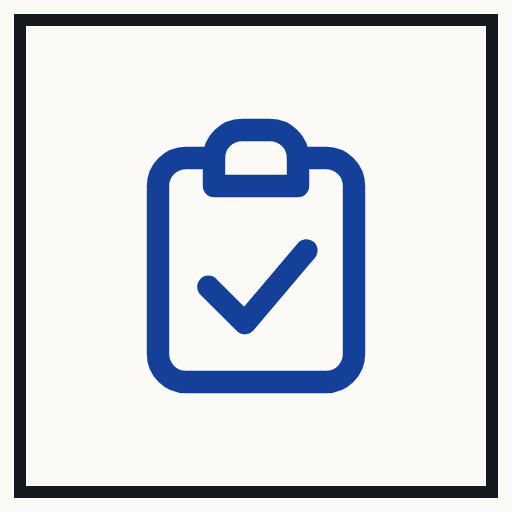
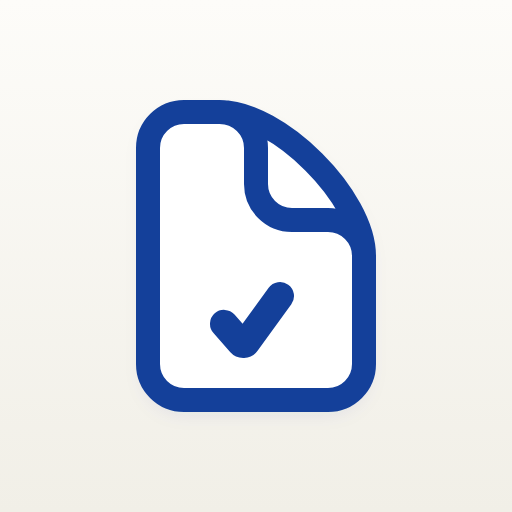
Новая иконка без рамки и заставка при запуске
Иконка по рефу file-check на бумажном фоне, PNG помечены maskable.
Заставка: три бланка раскладываются веером и заполняются, ~1,3 с,
касание пропускает, при reduced-motion — статичный кадр. Кэш akt-v17.

Changed region(s): [[0.0, 0.0, 1.0, 1.0], [0.25, 0.1875, 0.75, 0.8125]]

diff --git a/index.html b/index.html
@@ -243,6 +243,23 @@ main{max-width:1240px;margin:0 auto;padding:20px calc(var(--fR) + 16px) 0 calc(v
 #pvpage .docx-wrapper{background:none;padding:0}
 #pvpage section.docx{margin:0 auto;background:#fff;color:#000;box-shadow:0 6px 24px rgba(0,0,0,.4)}
 #toast{position:fixed;left:50%;transform:translateX(-50%);bottom:calc(var(--barh) + var(--fB) + 14px);background:var(--ink);color:var(--paper);padding:12px 18px;border-radius:4px;z-index:20;display:none;font-weight:600;max-width:90vw}
+/* Заставка: три бланка раскладываются веером и быстро заполняются, затем собираются в один.
+   Покой = конечный кадр, ключевые кадры ведут из пустого: при reduce видно готовое состояние. */
+#splash{position:fixed;inset:0;z-index:30;display:grid;place-items:center;background:var(--paper);animation:sp-out .25s 1.02s ease-in both}
+#splash svg{width:min(76vw,340px);overflow:visible;stroke:var(--acc);fill:none;stroke-linecap:round;stroke-linejoin:round}
+#splash .pg{fill:var(--surf);stroke-width:1.15}
+#splash .s{transform-box:fill-box;transform-origin:50% 100%}
+#splash .sl{transform:rotate(-7deg);animation:sp-l 1.08s var(--ease) both}
+#splash .sr{transform:rotate(7deg);animation:sp-r 1.08s var(--ease) both}
+#splash .sc{animation:sp-c .3s var(--ease) both}
+#splash .f{stroke-width:.9;stroke-dasharray:1 2;animation:sp-f .2s var(--d) var(--ease) both}
+#splash .f.b{stroke-width:1.2}
+#splash .ok{stroke-width:1.4;animation-duration:.26s}
+@keyframes sp-f{from{stroke-dashoffset:1.01}}
+@keyframes sp-c{from{opacity:0;transform:scale(.9)}}
+@keyframes sp-l{0%{opacity:0;transform:translateX(18px)}24%,78%{opacity:1;transform:rotate(-7deg)}100%{opacity:0;transform:translateX(18px)}}
+@keyframes sp-r{0%{opacity:0;transform:translateX(-18px)}24%,78%{opacity:1;transform:rotate(7deg)}100%{opacity:0;transform:translateX(-18px)}}
+@keyframes sp-out{to{opacity:0;visibility:hidden}}
 @media (prefers-reduced-motion:reduce){*{animation:none!important;transition:none!important}}
 @media print{
   @page{size:A4;margin:0}
@@ -257,6 +274,22 @@ main{max-width:1240px;margin:0 auto;padding:20px calc(var(--fR) + 16px) 0 calc(v
 </style>
 </head>
 <body class="home">
+<div id="splash" aria-hidden="true"><svg viewBox="0 2 60 20">
+ <defs><path id="spPg" d="M9.728 3H7.5a2.25 2.25 0 0 0-2.25 2.25v13.5A2.25 2.25 0 0 0 7.5 21h9a2.25 2.25 0 0 0 2.25-2.25V12C18.75 8.36 13.418 3 9.728 3zM9.728 3C10.971 3 12 4.007 12 5.25V7.5a2.25 2.25 0 0 0 2.25 2.25h2.25A2.25 2.25 0 0 1 18.75 12"/></defs>
+ <g><g class="s sl"><use href="#spPg" class="pg"/>
+  <path class="f" pathLength="1" style="--d:.26s" d="M7.75 12.25H12"/><path class="f" pathLength="1" style="--d:.3s" d="M14.5 12.25h1.75"/>
+  <path class="f" pathLength="1" style="--d:.34s" d="M7.75 14.75H12"/><path class="f" pathLength="1" style="--d:.38s" d="M14.5 14.75h1.75"/>
+  <path class="f b" pathLength="1" style="--d:.44s" d="M7.75 17.75H10"/><path class="f b" pathLength="1" style="--d:.48s" d="M13 17.75h3.25"/></g></g>
+ <g transform="translate(36 0)"><g class="s sr"><use href="#spPg" class="pg"/>
+  <path class="f" pathLength="1" style="--d:.2s" d="M7.75 12H16.25"/><path class="f" pathLength="1" style="--d:.26s" d="M11 12V18.75"/>
+  <path class="f" pathLength="1" style="--d:.32s" d="M8 14.5h1.5"/><path class="f b" pathLength="1" style="--d:.36s" d="M12.5 14.5h3.25"/>
+  <path class="f" pathLength="1" style="--d:.42s" d="M8 17.25h1.5"/><path class="f b" pathLength="1" style="--d:.46s" d="M12.5 17.25h2.25"/></g></g>
+ <g transform="translate(18 0)"><g class="s sc"><use href="#spPg" class="pg"/>
+  <path class="f" pathLength="1" style="--d:.3s" d="M7.75 12H16.25"/><path class="f" pathLength="1" style="--d:.4s" d="M7.75 14.5H11"/>
+  <path class="f ok" pathLength="1" style="--d:.52s" d="M12.5 16.742l1.039 1.181c.095.109.267.1.351-.016L16 15"/></g></g>
+</svg></div>
+<script>(function(){var s=document.getElementById("splash");function x(){if(s){s.remove();s=null}}
+setTimeout(x,matchMedia("(prefers-reduced-motion:reduce)").matches?450:1300);s.addEventListener("pointerdown",x)})()</script>
 <svg width="0" height="0" style="position:absolute" aria-hidden="true"><defs>
 <symbol id="i-mic" viewBox="0 0 24 24"><rect x="9" y="3" width="6" height="11" rx="3"/><path d="M5 11a7 7 0 0 0 14 0M12 18v3"/></symbol>
 <symbol id="i-plus" viewBox="0 0 24 24"><path d="M12 5v14M5 12h14"/></symbol>

diff --git a/sw.js b/sw.js
@@ -1,4 +1,4 @@
-const V = "akt-v16";
+const V = "akt-v17";
 const FILES = ["./", "index.html", "app.js", "gen.js", "manifest.webmanifest", "icon.svg", "icon-192.png", "icon-512.png",
   "lib/docx.js", "lib/jszip.min.js", "lib/docx-preview.js", "lib/html2canvas.min.js", "lib/jspdf.umd.min.js", "lib/jsQR.js"];
 // cache: "reload" — мимо HTTP-кэша GitHub Pages, иначе в новую версию попадут старые файлы
